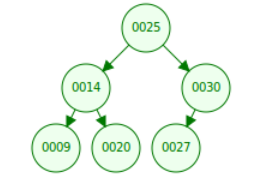
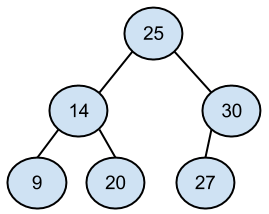
Fixed a few typos

diff --git a/review/contents/trees/basic/question.py b/review/contents/trees/basic/question.py
@@ -66,7 +66,7 @@ Tree(25,
           Tree(20)),
      Tree(30,
           Tree(27)))""",
-      'solution': 'Ignore the leading zeros:</p><img src="tree.png">' + utils.ol((
+      'solution': '</p><p><img src="tree.png"></p>' + utils.ol((
         '25',
         '9, 20, 27',
         '2 children',

diff --git a/notes/contents/vim.md b/notes/contents/vim.md
@@ -335,7 +335,7 @@ commands are specific to Vim. To enter command mode from normal mode,
 press `:` (the colon). At the bottom of your screen you should see a
 `:` appear. Now you can type in a Vim command.
 
-There are ton of Vim commands out there, so we'll only cover a few of
+There are tons of Vim commands out there, so we'll only cover a few of
 the most frequently used ones.
 
 * `:w` saves the file. You can also save the file with a name by
